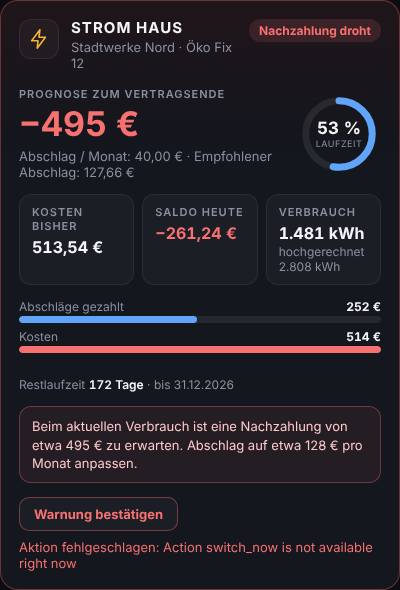
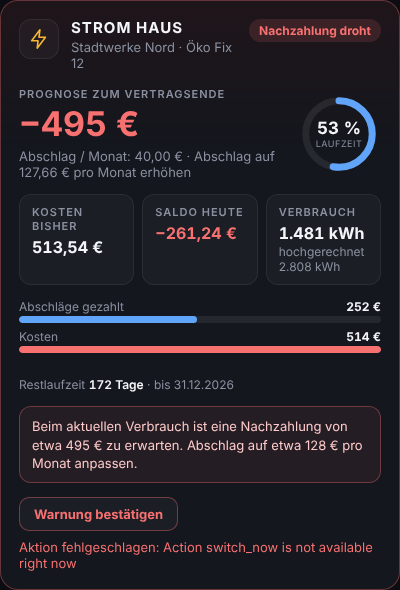
Tariffy 1.27.0-rc.6: state badge right-most, clearer instalment advice (#38)
* Panel: badges on the right in the contract list and on phone cards (1.27.0-rc.6)

Claude-Session: https://claude.ai/code/session_011wNPKqgRVqpMfNb2Np7XaH

* Panel: state badge always right-most (1.27.0-rc.6)

Claude-Session: https://claude.ai/code/session_011wNPKqgRVqpMfNb2Np7XaH

* Panel: instalment recommendation says raise, lower or none needed (1.27.0-rc.6)

Claude-Session: https://claude.ai/code/session_011wNPKqgRVqpMfNb2Np7XaH

---------

Changed region(s): [[0.03, 0.2746, 0.48, 0.3051], [0.48, 0.2441, 0.69, 0.2746]]

diff --git a/custom_components/tariffy/frontend/tariffy-panel.js b/custom_components/tariffy/frontend/tariffy-panel.js
@@ -81,6 +81,8 @@ const I18N = {
     dlgAborted: "Home Assistant ended the form: {m}",
     dlgUnsupported: "This form has fields the panel cannot show yet. Please use the setup of Home Assistant.",
     coveredHint: "Credit covers the costs",
+    adviceRaise: "Raise the instalment to {v} per month", adviceLower: "Instalment could drop to {v} per month",
+    adviceNone: "No instalment needed: the credit covers the costs until the contract ends", adviceOk: "The instalment fits",
     sparte: {
       electricity: "Electricity", electricity_ht_nt: "Electricity HT/NT", gas: "Gas",
       water: "Water", internet: "Internet", mobile: "Mobile", insurance: "Insurance", other: "Other",
@@ -160,6 +162,8 @@ const I18N = {
     dlgAborted: "Home Assistant hat das Formular beendet: {m}",
     dlgUnsupported: "Dieses Formular enthält Felder, die das Panel noch nicht anzeigen kann. Bitte die Einrichtung von Home Assistant benutzen.",
     coveredHint: "Guthaben deckt die Kosten",
+    adviceRaise: "Abschlag auf {v} pro Monat erhöhen", adviceLower: "Abschlag könnte auf {v} pro Monat sinken",
+    adviceNone: "Kein Abschlag nötig: Das Guthaben deckt die Kosten bis Vertragsende", adviceOk: "Der Abschlag passt",
     sparte: {
       electricity: "Strom", electricity_ht_nt: "Strom HT/NT", gas: "Gas",
       water: "Wasser", internet: "Internet", mobile: "Mobilfunk", insurance: "Versicherung", other: "Sonstiges",
@@ -390,10 +394,10 @@ summary .caret svg { width: 18px; height: 18px; fill: none; stroke: currentColor
 summary:hover .caret { color: var(--text); }
 summary .chips:empty { display: none; }
 /* cards (overview): the chips get a line of their own below */
-details.card > summary .chips { flex-basis: 100%; justify-content: flex-start; order: 5; }
+details.card > summary .chips { flex-basis: 100%; justify-content: flex-end; order: 5; }
 /* rows of the contract list: name, chips, amount on one line, wrapping on narrow screens */
 details:not(.card) > summary { flex-wrap: wrap; }
-details:not(.card) > summary .who { flex: 1 1 220px; }
+details:not(.card) > summary .who { flex: 1 1 150px; }
 details:not(.card) > summary .chips { flex: 0 1 auto; justify-content: flex-end; }
 details.card { padding: 0; }
 details.card > summary { padding: 14px 16px; flex-wrap: wrap; }
@@ -638,6 +642,16 @@ class TariffyPanel extends HTMLElement {
     return isNum(value) ? this._money(Math.max(0, value), currency, { digits: 2 }) : "–";
   }
 
+  /* What the recommended instalment means for the current one: raise it, lower it, none needed, or fine as it is. */
+  _advice(c) {
+    const rec = c.abschlag_anpassung_empfohlen;
+    if (!isNum(rec)) return null;
+    if (rec < 0) return this._t("adviceNone");
+    const v = this._money(rec, c.currency, { digits: 2 });
+    if (!isNum(c.abschlag) || Math.abs(rec - c.abschlag) < 0.5) return this._t("adviceOk");
+    return this._t(rec > c.abschlag ? "adviceRaise" : "adviceLower", { v });
+  }
+
   _covered(value) {
     return isNum(value) && value < 0;
   }
@@ -687,15 +701,17 @@ class TariffyPanel extends HTMLElement {
     const hasMetering = isNum(c.prognose_real);
     // consumption already measured (also on the first day, before there is a forecast)
     const measured = isNum(c.kosten_bisher) || isNum(c.verbrauch_bisher);
+    // the state (credit / balance due / warning) always comes last, so it sits at the far right
+    // of every card; further badges (cancel now, switch on ...) stand to its left
     const chips = [];
     if (c.erinnerung_aktiv) chips.push({ text: this._t("cancelDue"), tone: "orange" });
+    if (c.wechsel) chips.push({ text: this._t("switchOn", { d: this._date(c.wechsel) }), tone: "blue" });
     if (c.abschlag_warnung_aktiv) chips.push({ text: this._t("warning"), tone: "red" });
     else if (hasMetering) {
       chips.push(c.prognose_real >= 0
         ? { text: this._t("credit"), tone: "green" }
         : { text: this._t("balanceDue"), tone: "red" });
     }
-    if (c.wechsel) chips.push({ text: this._t("switchOn", { d: this._date(c.wechsel) }), tone: "blue" });
     return { elapsed, paid, hasMetering, measured, chips };
   }
 
@@ -918,8 +934,7 @@ class TariffyPanel extends HTMLElement {
       : isNum(c.abschlag)
       ? `${this._t("instalment")}: ${this._money(c.abschlag, c.currency, { digits: 2 })}` +
         (isNum(c.abschlag_anpassung_empfohlen)
-          ? ` · ${this._t("recommended")}: ${this._instalment(c.abschlag_anpassung_empfohlen, c.currency)}` +
-            (this._covered(c.abschlag_anpassung_empfohlen) ? ` (${this._t("coveredHint")})` : "")
+          ? ` · ${this._advice(c)}`
           : "")
       : null;
 
@@ -1616,10 +1631,7 @@ class TariffyPanel extends HTMLElement {
       ]) : null,
       section(this._t("secAdvice"), [
         row(this._t("recommended"), isNum(c.empfohlener_abschlag) ? `${money(c.empfohlener_abschlag)} ${this._t("perMonth")}` : null),
-        row(this._t("adjustment"), isNum(c.abschlag_anpassung_empfohlen)
-          ? `${this._instalment(c.abschlag_anpassung_empfohlen, c.currency)} ${this._t("perMonth")}` +
-            (this._covered(c.abschlag_anpassung_empfohlen) ? ` · ${this._t("coveredHint")}` : "")
-          : null),
+        row(this._t("adjustment"), this._advice(c)),
       ]),
       c.next ? section(this._t("secNext"), [
         row(this._t("nextStart"), nxt.beginn ? this._date(nxt.beginn) : null),

diff --git a/CHANGELOG.md b/CHANGELOG.md
@@ -7,6 +7,16 @@ and this project adheres to [Semantic Versioning](https://semver.org/spec/v2.0.0
 
 ## [Unreleased]
 
+## [1.27.0-rc.6] - 2026-11-07
+
+Sixth release candidate for testing the sidebar panel. Please report problems with the bug report form and mention this exact version.
+
+### Changed
+
+- The instalment recommendation says what to do: "Raise the instalment to 127.66 € per month", "Instalment could drop to 88.76 € per month", "No instalment needed: the credit covers the costs until the contract ends" or "The instalment fits". Before, a lower recommendation (credit at the end) stood there without a direction and looked like a contradiction to a negative balance today.
+- The state badge ("Credit", "Balance due", "Balance due likely") is always the right-most badge; further badges ("Switch on ...", "Cancel now") stand to its left, so the state sits in the same place on every card.
+- The badges sit on the right in the contract list as well: next to the name on a phone instead of on a line of their own at the left, and right-aligned on the cards of the overview on a phone.
+
 ## [1.27.0-rc.5] - 2026-11-07
 
 Fifth release candidate for testing the sidebar panel. Please report problems with the bug report form and mention this exact version.

diff --git a/custom_components/tariffy/CHANGELOG.md b/custom_components/tariffy/CHANGELOG.md
@@ -7,6 +7,16 @@ das Projekt folgt [Semantic Versioning](https://semver.org/lang/de/).
 
 ## [Unreleased]
 
+## [1.27.0-rc.6] - 2026-11-07
+
+Sechster Release Candidate zum Testen des Seitenleisten-Panels. Bitte melde Probleme mit dem Bug-Formular und nenne diese genaue Version.
+
+### Changed
+
+- Die Abschlag-Empfehlung sagt, was zu tun ist: "Abschlag auf 127,66 € pro Monat erhöhen", "Abschlag könnte auf 88,76 € pro Monat sinken", "Kein Abschlag nötig: Das Guthaben deckt die Kosten bis Vertragsende" oder "Der Abschlag passt". Vorher stand eine niedrigere Empfehlung (Guthaben zum Vertragsende) ohne Richtung da und wirkte wie ein Widerspruch zum Rückstand heute.
+- Das Status-Badge ("Guthaben", "Nachzahlung", "Nachzahlung droht") steht immer ganz rechts; weitere Badges ("Wechsel am ...", "Jetzt kündigen") stehen links daneben, damit der Status auf jeder Karte an derselben Stelle sitzt.
+- Die Badges stehen auch in der Vertragsliste rechts: auf dem Handy neben dem Namen statt links in einer eigenen Zeile, und auf den Karten der Übersicht auf dem Handy rechtsbündig.
+
 ## [1.27.0-rc.5] - 2026-11-07
 
 Fünfter Release Candidate zum Testen des Seitenleisten-Panels. Bitte melde Probleme mit dem Bug-Formular und nenne diese genaue Version.
